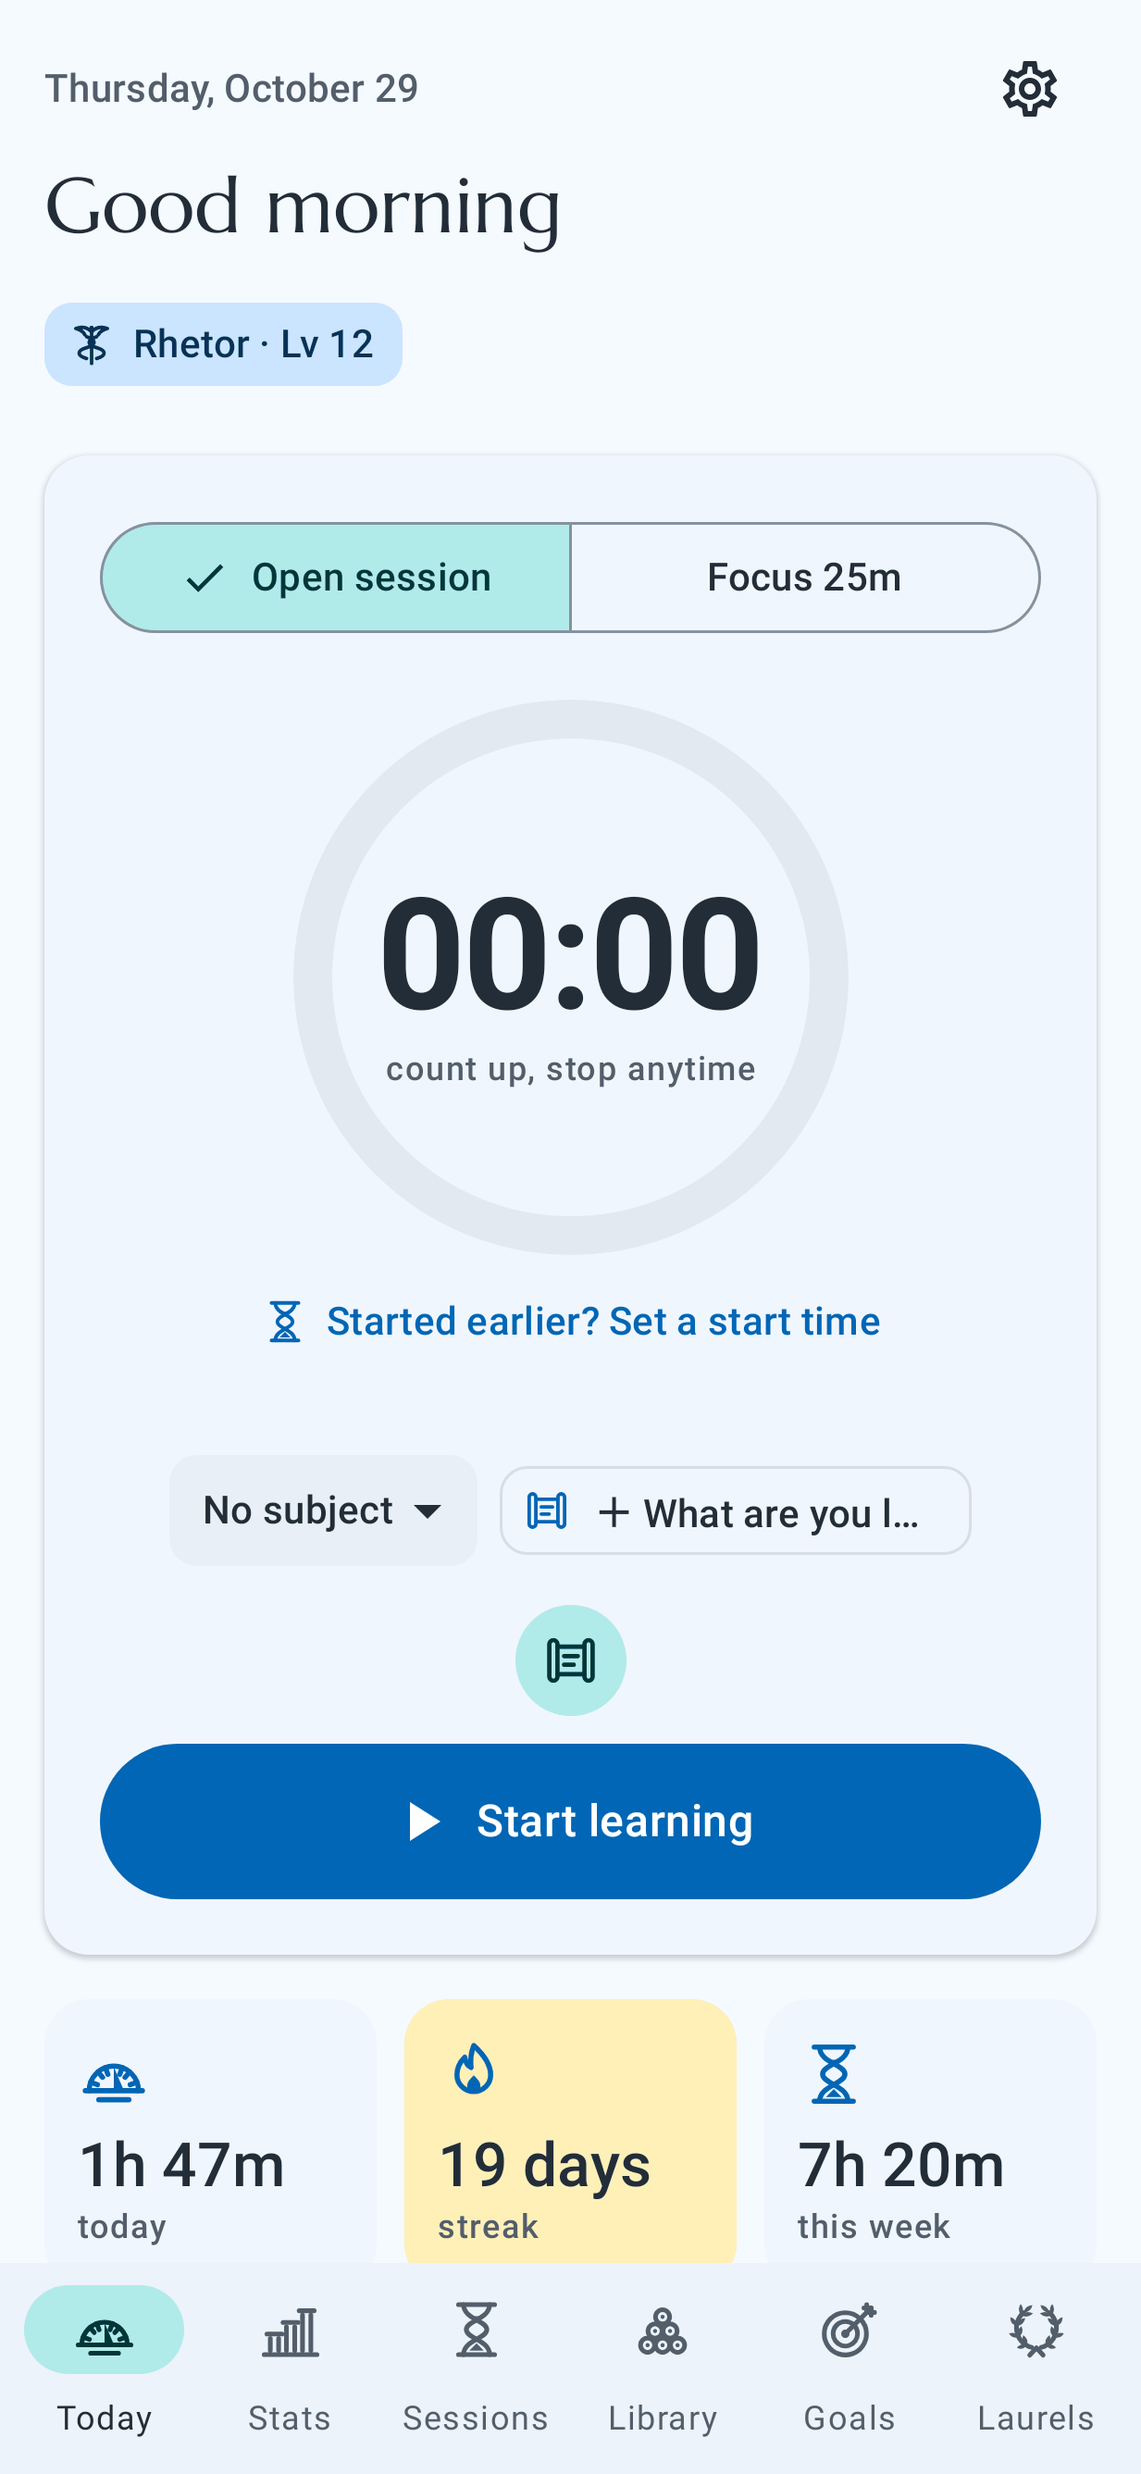
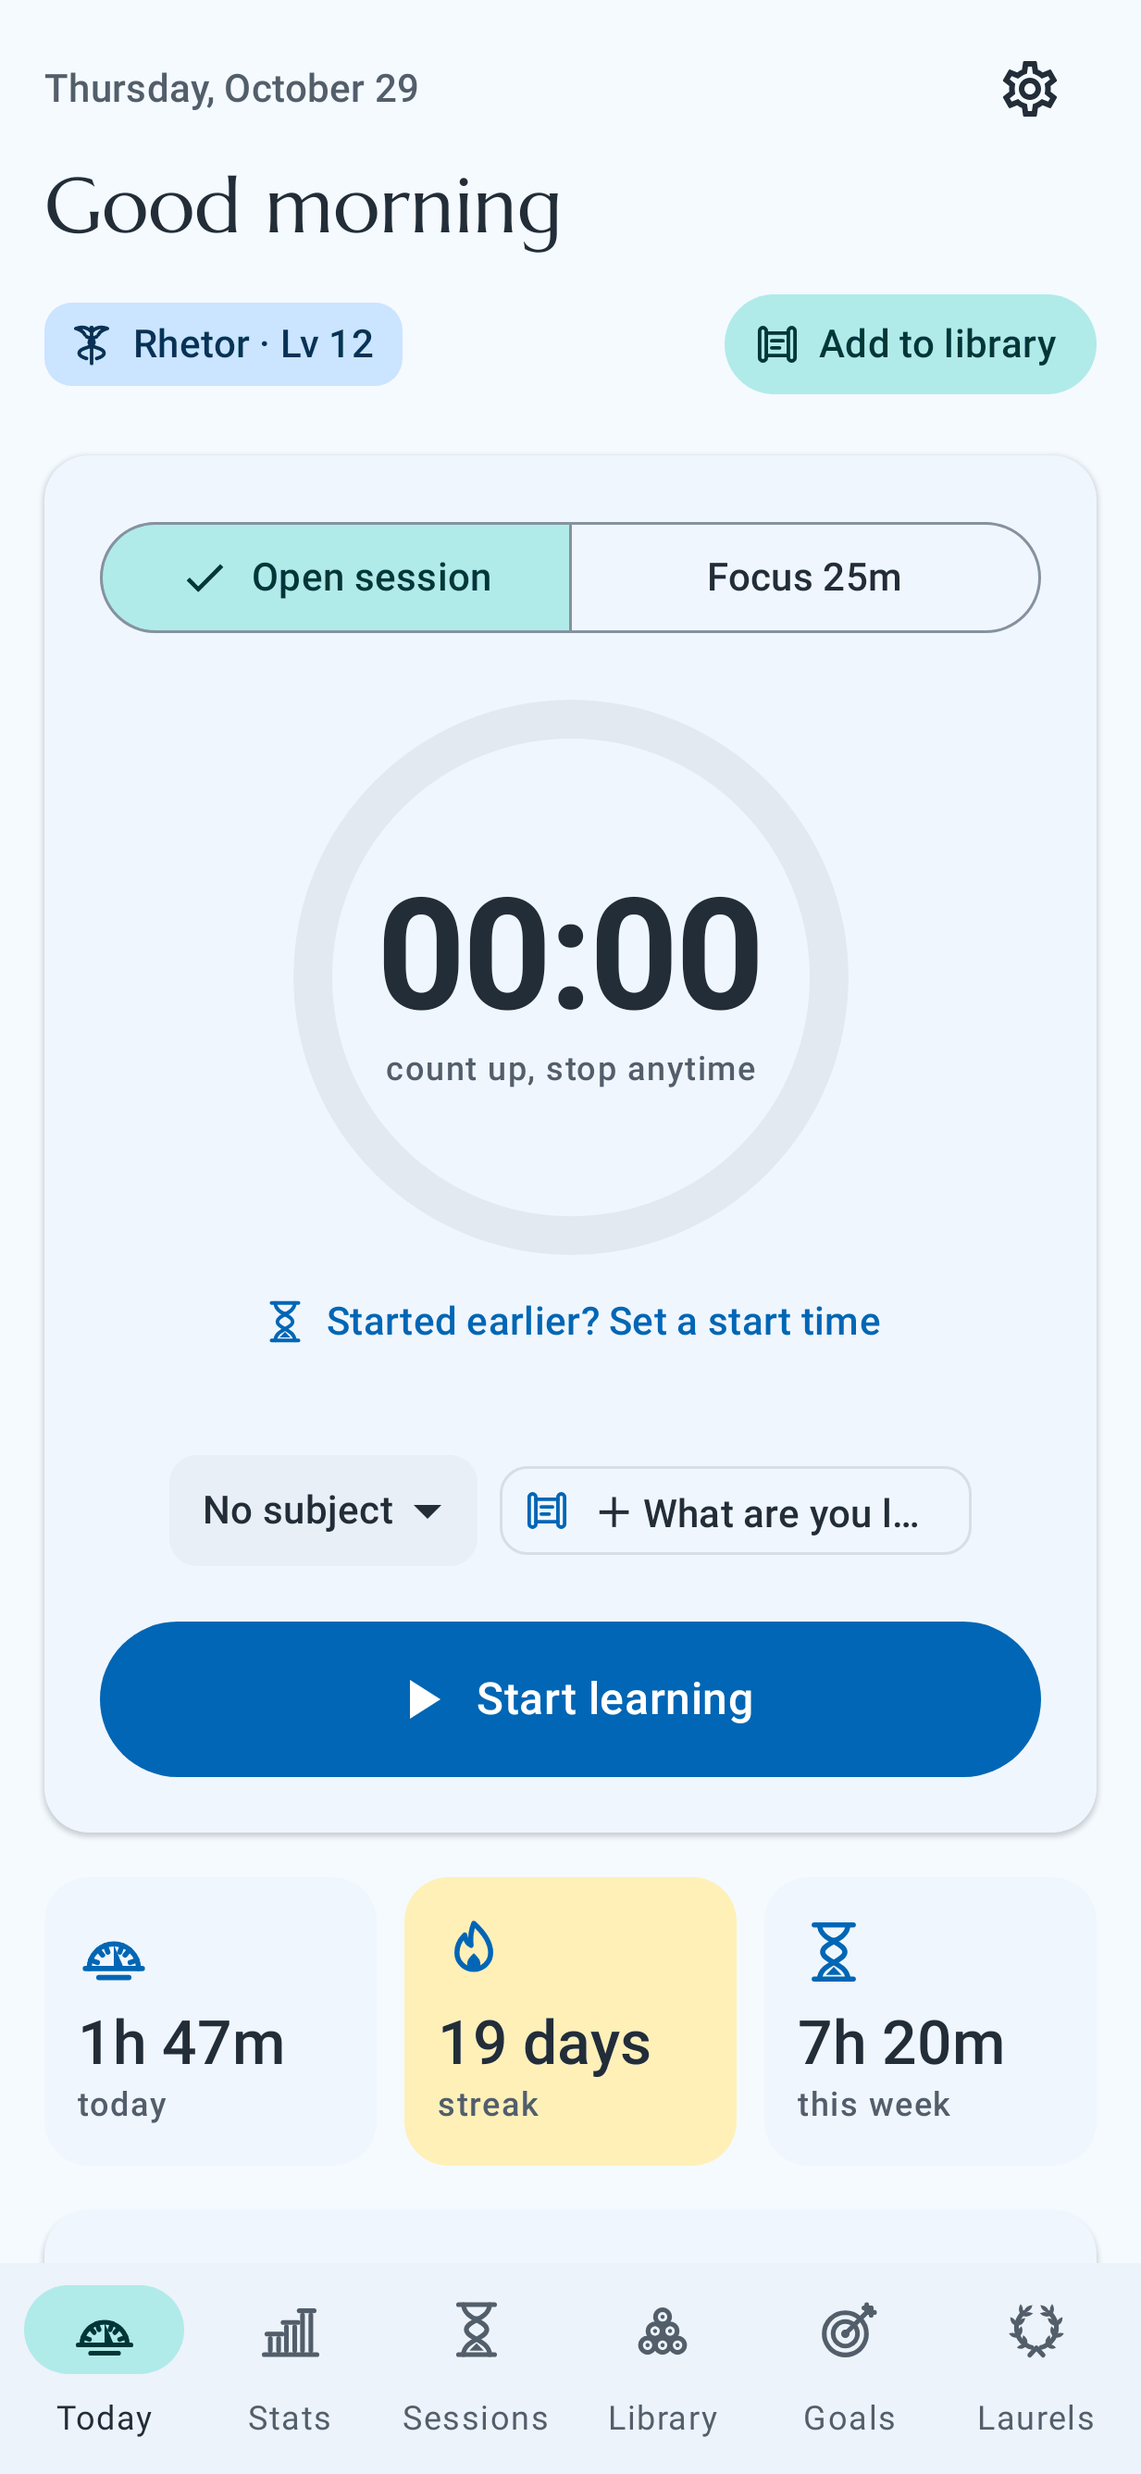
v1.8.1: fix minutes typing as 59; Add to library moves up top
- Number fields keep their own text and cursor. Tapping a box that holds
  a number selects it, so typing replaces it (Log a past session starts
  at 30 minutes; typing 37 made 3037, capped to 59). Zero shows as an
  empty box with a 0 hint, so the cursor can't sit in front of a 0.
  Tests reproduce both failures on the old field.
- 'Add to library' is now a labelled button beside the title badge at
  the top of Today; the new item is still selected in the timer.

Claude-Session: https://claude.ai/code/session_014qjyYGX9hTRTSpsWDbbutA

Changed region(s): [[0.0616, 0.6521, 0.9246, 0.9315], [0.6164, 0.0932, 0.9554, 0.1863], [0.1541, 0.8073, 0.2466, 0.8384]]

diff --git a/app/src/main/java/com/rayaurelius/sophinity/ui/today/TodayScreen.kt b/app/src/main/java/com/rayaurelius/sophinity/ui/today/TodayScreen.kt
@@ -12,6 +12,7 @@ import androidx.compose.foundation.clickable
 import androidx.compose.foundation.shape.CircleShape
 import androidx.compose.ui.draw.clip
 import androidx.compose.runtime.mutableIntStateOf
+import androidx.compose.foundation.layout.widthIn
 import com.rayaurelius.sophinity.R
 import com.rayaurelius.sophinity.data.db.ItemType
 import com.rayaurelius.sophinity.ui.library.LibraryViewModel
@@ -130,8 +131,24 @@ fun TodayScreen(
     val timer = vm.timer.collectAsStateWithLifecycle().value
     val reflect by vm.reflect.collectAsStateWithLifecycle()
     var showManual by rememberSaveable { mutableStateOf(false) }
+    var addingItem by remember { mutableStateOf(false) }
+    var added by remember { mutableStateOf<AddedItem?>(null) }
 
     if (snap == null || timer == null) return
+
+    if (addingItem) {
+        val library = appViewModel { LibraryViewModel(it) }
+        ItemEditorSheet(
+            snap, LearningItem(type = ItemType.BOOK, title = "", status = ItemStatus.ACTIVE, subjectId = snap.settings.lastSubjectId),
+            onDismiss = { addingItem = false },
+            onSave = { item ->
+                library.save(item) { id -> added = AddedItem(id, item.subjectId) }
+                addingItem = false
+            },
+            onDelete = { addingItem = false },
+            onCreateCategory = { cat, picked -> library.saveCategory(cat, picked) },
+        )
+    }
 
     LazyColumn(
         contentPadding = PaddingValues(
@@ -142,8 +159,8 @@ fun TodayScreen(
         verticalArrangement = Arrangement.spacedBy(16.dp),
         modifier = Modifier.fillMaxSize(),
     ) {
-        item { Header(snap, onOpenSettings, onOpenBadges) }
-        item { TimerCard(snap, timer, vm) }
+        item { Header(snap, onOpenSettings, onOpenBadges, onAddToLibrary = { addingItem = true }) }
+        item { TimerCard(snap, timer, vm, added, onAddedConsumed = { added = null }) }
         item { QuickStats(snap) }
         item { GoalsGlance(snap, snap.goalProgress, onOpenGoals) }
         if (snap.activeItems.isNotEmpty()) item { ContinueLearning(snap, timer, vm) }
@@ -169,7 +186,7 @@ fun TodayScreen(
 }
 
 @Composable
-private fun Header(snap: Snapshot, onOpenSettings: () -> Unit, onOpenBadges: () -> Unit) {
+private fun Header(snap: Snapshot, onOpenSettings: () -> Unit, onOpenBadges: () -> Unit, onAddToLibrary: () -> Unit) {
     val hour = LocalTime.now().hour
     val greeting = stringResource(when (hour) { in 4..11 -> R.string.greet_morning; in 12..16 -> R.string.greet_afternoon; else -> R.string.greet_evening })
     // Stacked so it never truncates: narrow screens, side toolbar, large text, long translations.
@@ -181,6 +198,7 @@ private fun Header(snap: Snapshot, onOpenSettings: () -> Unit, onOpenBadges: () 
         }
         Text(greeting, style = MaterialTheme.typography.headlineMedium)
         Spacer(Modifier.height(8.dp))
+        Row(verticalAlignment = Alignment.CenterVertically) {
         Surface(onClick = onOpenBadges, shape = MaterialTheme.shapes.small, color = MaterialTheme.colorScheme.primaryContainer) {
             Row(Modifier.padding(start = 8.dp, end = 10.dp, top = 5.dp, bottom = 5.dp), verticalAlignment = Alignment.CenterVertically) {
                 Glyph(snap.title.current.glyph, size = 18.dp, tint = MaterialTheme.colorScheme.onPrimaryContainer)
@@ -192,11 +210,25 @@ private fun Header(snap: Snapshot, onOpenSettings: () -> Unit, onOpenBadges: () 
                 )
             }
         }
+        Spacer(Modifier.weight(1f).widthIn(min = 8.dp))
+        // Add a book, podcast or course without leaving Today; it's then selected in the timer.
+        FilledTonalButton(onClick = onAddToLibrary, contentPadding = PaddingValues(start = 10.dp, end = 14.dp), modifier = Modifier.height(36.dp)) {
+            Glyph("scroll", size = 18.dp)
+            Spacer(Modifier.width(6.dp))
+            Text(
+                stringResource(R.string.lib_add_title), maxLines = 1, softWrap = false,
+                autoSize = androidx.compose.foundation.text.TextAutoSize.StepBased(minFontSize = 10.sp, maxFontSize = MaterialTheme.typography.labelLarge.fontSize),
+            )
+        }
+        }
     }
 }
 
+/** A library item just created from Today, to select in the timer. */
+private data class AddedItem(val id: Long, val subjectId: Long?)
+
 @Composable
-private fun TimerCard(snap: Snapshot, timer: TimerState, vm: TodayViewModel) {
+private fun TimerCard(snap: Snapshot, timer: TimerState, vm: TodayViewModel, added: AddedItem?, onAddedConsumed: () -> Unit) {
     var now by remember { mutableLongStateOf(System.currentTimeMillis()) }
     LaunchedEffect(timer.status) {
         while (timer.status == TimerStatus.RUNNING || timer.status == TimerStatus.BREAK) {
@@ -215,19 +247,9 @@ private fun TimerCard(snap: Snapshot, timer: TimerState, vm: TodayViewModel) {
     if (pickHeadStart) HeadStartSheet(headStartMin, onDismiss = { pickHeadStart = false }) { headStartMin = it; pickHeadStart = false }
     var subjectId by rememberSaveable { mutableStateOf(snap.settings.lastSubjectId?.takeIf { it in snap.subjectsById }) }
     var itemId by rememberSaveable { mutableStateOf<Long?>(null) }
-    var addingItem by remember { mutableStateOf(false) }
-    if (addingItem) {
-        val library = appViewModel { LibraryViewModel(it) }
-        ItemEditorSheet(
-            snap, LearningItem(type = ItemType.BOOK, title = "", status = ItemStatus.ACTIVE, subjectId = subjectId),
-            onDismiss = { addingItem = false },
-            onSave = { item ->
-                library.save(item) { id -> itemId = id; item.subjectId?.let { subjectId = it } }
-                addingItem = false
-            },
-            onDelete = { addingItem = false },
-            onCreateCategory = { cat, picked -> library.saveCategory(cat, picked) },
-        )
+    // An item just added from the header's "Add to library" is selected for the next session.
+    LaunchedEffect(added) {
+        added?.let { a -> itemId = a.id; a.subjectId?.let { subjectId = it }; onAddedConsumed() }
     }
 
     ElevatedCard(Modifier.fillMaxWidth()) {
@@ -283,12 +305,7 @@ private fun TimerCard(snap: Snapshot, timer: TimerState, vm: TodayViewModel) {
                             snap.itemsById[id]?.subjectId?.let { subjectId = it }
                         }
                     }
-                    Spacer(Modifier.height(10.dp))
-                    // Add a book, podcast or course right here, without leaving the timer; it's selected once saved.
-                    FilledTonalIconButton(onClick = { addingItem = true }, modifier = Modifier.size(40.dp)) {
-                        Glyph("scroll", size = 22.dp, contentDescription = stringResource(R.string.timer_add_media))
-                    }
-                    Spacer(Modifier.height(10.dp))
+                    Spacer(Modifier.height(16.dp))
                     Button(onClick = { vm.start(mode, subjectId, itemId, if (mode == TimerMode.STOPWATCH) headStartMin * 60_000L else 0); headStartMin = 0 }, modifier = Modifier.fillMaxWidth().height(56.dp)) {
                         Icon(Icons.Default.PlayArrow, null)
                         Spacer(Modifier.width(8.dp))

diff --git a/app/src/test/java/com/rayaurelius/sophinity/ui/components/NumberFieldTest.kt b/app/src/test/java/com/rayaurelius/sophinity/ui/components/NumberFieldTest.kt
@@ -1,0 +1,98 @@
+package com.rayaurelius.sophinity.ui.components
+
+import androidx.compose.runtime.getValue
+import androidx.compose.runtime.mutableStateOf
+import androidx.compose.runtime.remember
+import androidx.compose.runtime.setValue
+import androidx.compose.ui.test.hasText
+import androidx.compose.ui.test.junit4.createComposeRule
+import androidx.compose.ui.test.performClick
+import androidx.compose.ui.test.performTextInput
+import androidx.compose.ui.test.performTextReplacement
+import androidx.compose.ui.test.performTextInputSelection
+import androidx.compose.ui.text.TextRange
+import androidx.test.ext.junit.runners.AndroidJUnit4
+import org.junit.Assert.assertEquals
+import org.junit.Rule
+import org.junit.Test
+import org.junit.runner.RunWith
+import org.robolectric.annotation.Config
+
+/** Typing minutes one digit at a time must give that number, not a capped 59. */
+@RunWith(AndroidJUnit4::class)
+@Config(sdk = [36])
+class NumberFieldTest {
+    @get:Rule val compose = createComposeRule()
+
+    @Test fun typingThreeThenSevenGivesThirtySeven() {
+        var seconds: Long? = null
+        compose.setContent {
+            var s by remember { mutableStateOf<Long?>(null) }
+            DurationFields("Hours", s, { s = it; seconds = it })
+        }
+        val minutes = compose.onNode(hasText("Minutes"))
+        minutes.performClick()
+        minutes.performTextInput("3")
+        minutes.performTextInput("7")
+        compose.waitForIdle()
+        assertEquals(37 * 60L, seconds)
+    }
+
+    @Test fun typingOverAZeroReplacesIt() {
+        var value: Int? = 0
+        compose.setContent {
+            var v by remember { mutableStateOf<Int?>(0) }
+            NumberField("Minutes", v, { v = it?.coerceAtMost(59); value = v })
+        }
+        val field = compose.onNode(hasText("Minutes"))
+        field.performTextReplacement("0")
+        field.performTextInput("3")
+        field.performTextInput("7")
+        compose.waitForIdle()
+        assertEquals(37, value)
+    }
+
+    /** The reported bug: hours typed first, minutes showed "0", and the cursor landed in front of it. */
+    @Test fun minutesAfterHoursGiveTheTypedNumber() {
+        var seconds: Long? = null
+        compose.setContent {
+            var s by remember { mutableStateOf<Long?>(null) }
+            DurationFields("Hours", s, { s = it; seconds = it })
+        }
+        compose.onNode(hasText("Hours")).performTextInput("1")
+        compose.waitForIdle()
+        val minutes = compose.onNode(hasText("Minutes"))
+        minutes.performTextInputSelection(TextRange(0))
+        minutes.performTextInput("3")
+        minutes.performTextInput("7")
+        compose.waitForIdle()
+        assertEquals(3600L + 37 * 60L, seconds)
+    }
+
+    /** The reported bug: "Log a past session" starts at 30 minutes; typing 37 gave 59. */
+    @Test fun typingIntoAPrefilledBoxReplacesIt() {
+        var value: Int? = 30
+        compose.setContent {
+            var v by remember { mutableStateOf<Int?>(30) }
+            NumberField("Minutes", v, { v = it?.coerceAtMost(59); value = v })
+        }
+        val field = compose.onNode(hasText("Minutes"))
+        field.performClick()
+        compose.mainClock.advanceTimeBy(500)
+        field.performTextInput("3")
+        field.performTextInput("7")
+        compose.waitForIdle()
+        assertEquals(37, value)
+    }
+
+    @Test fun valuesAboveTheLimitAreStillCapped() {
+        var value: Int? = null
+        compose.setContent {
+            var v by remember { mutableStateOf<Int?>(null) }
+            NumberField("Minutes", v, { v = it?.coerceAtMost(59); value = v })
+        }
+        compose.onNode(hasText("Minutes")).performTextInput("75")
+        compose.waitForIdle()
+        assertEquals(59, value)
+    }
+}

diff --git a/app/src/main/java/com/rayaurelius/sophinity/ui/components/Common.kt b/app/src/main/java/com/rayaurelius/sophinity/ui/components/Common.kt
@@ -1,5 +1,6 @@
 package com.rayaurelius.sophinity.ui.components
 
+import androidx.compose.ui.focus.onFocusChanged
 import androidx.compose.material.icons.outlined.Settings
 import androidx.compose.ui.semantics.semantics
 import androidx.compose.ui.semantics.heading
@@ -230,14 +231,45 @@ fun FocusColumns(level: Int, color: Color, modifier: Modifier = Modifier) {
 
 @Composable
 fun NumberField(label: String, value: Int?, onChange: (Int?) -> Unit, modifier: Modifier = Modifier, suffix: String? = null) {
+    // The field keeps its own text and cursor. Rebuilding the text from [value] on every keystroke
+    // moved the cursor, so the next digit could land in front ("3" then "7" became 73, capped to 59).
+    // Zero shows as an empty box with a "0" hint: a real "0" let the cursor sit in front of it,
+    // so typing 3 then 7 made "370" (capped to 59) instead of 37.
+    fun shown(v: Int?) = if (v == null || v == 0) "" else v.toString()
+    var field by remember { mutableStateOf(androidx.compose.ui.text.input.TextFieldValue(shown(value))) }
+    // Follow outside changes (a quick pick, a clamp to the allowed maximum) without fighting typing.
+    val showsValue = if (field.text.isEmpty()) value == null || value == 0 else field.text.toIntOrNull() == value
+    if (!showsValue) {
+        val t = shown(value)
+        field = androidx.compose.ui.text.input.TextFieldValue(t, androidx.compose.ui.text.TextRange(t.length))
+    }
+    // Tapping a box that already holds a number selects it, so typing replaces it: "Log a past
+    // session" starts at 30 minutes, and typing 37 used to make "3037" (capped to 59). The selection
+    // is applied just after the tap, which would otherwise place a cursor at the end.
+    var selectAll by remember { mutableStateOf(false) }
+    LaunchedEffect(selectAll) {
+        if (selectAll) {
+            kotlinx.coroutines.delay(120)
+            field = field.copy(selection = androidx.compose.ui.text.TextRange(0, field.text.length))
+            selectAll = false
+        }
+    }
     OutlinedTextField(
-        value = value?.toString() ?: "",
-        onValueChange = { t -> onChange(t.filter(Char::isDigit).take(6).toIntOrNull()) },
+        value = field,
+        onValueChange = { new ->
+            var digits = new.text.filter(Char::isDigit).take(6)
+            var cursor = new.selection.end.coerceAtMost(digits.length)
+            // "0" then "3" reads as 3, not 03.
+            while (digits.length > 1 && digits.startsWith("0")) { digits = digits.drop(1); cursor = (cursor - 1).coerceAtLeast(0) }
+            field = androidx.compose.ui.text.input.TextFieldValue(digits, androidx.compose.ui.text.TextRange(cursor))
+            onChange(digits.toIntOrNull())
+        },
         label = { Text(label) },
+        placeholder = { Text("0") },
         suffix = suffix?.let { { Text(it) } },
         singleLine = true,
         keyboardOptions = KeyboardOptions(keyboardType = KeyboardType.Number),
-        modifier = modifier,
+        modifier = modifier.onFocusChanged { if (it.isFocused && field.text.isNotEmpty()) selectAll = true },
     )
 }
 

diff --git a/app/src/test/java/com/rayaurelius/sophinity/ScreenshotTest.kt b/app/src/test/java/com/rayaurelius/sophinity/ScreenshotTest.kt
@@ -123,8 +123,8 @@ class ScreenshotTest {
     }
 
     @Test fun addMediaFromTimer() {
-        compose.onNode(hasContentDescription("Add a book, podcast or course to the library")).performClick()
-        compose.onNode(hasText("Add to library")).assertExists()
+        compose.onNode(hasText("Add to library")).performClick()
+        compose.onNode(hasText("Title")).assertExists()
         shot("17_add_media_from_timer")
     }
 

diff --git a/README.md b/README.md
@@ -38,7 +38,7 @@ Native Android, Kotlin + Jetpack Compose, Material 3, targeting **Android 17 (AP
 - **Backups that run themselves** — pick a folder once and Sophinity saves a fresh backup there every day (the last 14 are kept, so a bad day can be undone), with "Back up now" and a last-backup status. Files in a shared folder survive the app being uninstalled or its data cleared. Manual export can save to Google Drive, the app is included in Android's Google backup, and the welcome screen offers "Restore from a backup" on a new phone.
 - **Settings from every page** — a gear in the top-right corner of every tab.
 - **Drop-down menus or bubbles** — choices like item type, status, playback speed, goal period and filters are tidy drop-down menus; one switch in Appearance turns them all back into tappable bubbles.
-- **Add media from the timer** — a small scroll button above "Start learning" adds a book, podcast or course to the library without leaving the timer, and selects it for the session.
+- **Add media from the timer** — an "Add to library" button at the top of Today, next to your title, adds a book, podcast or course without leaving the timer, and selects it for the session.
 - **Private by design** — no accounts, ads, or trackers. Data stays on device, in Android Backup, and in JSON export/import. Database upgrades are covered by a migration test so existing data always carries over.
 
 ## The learning science behind it
